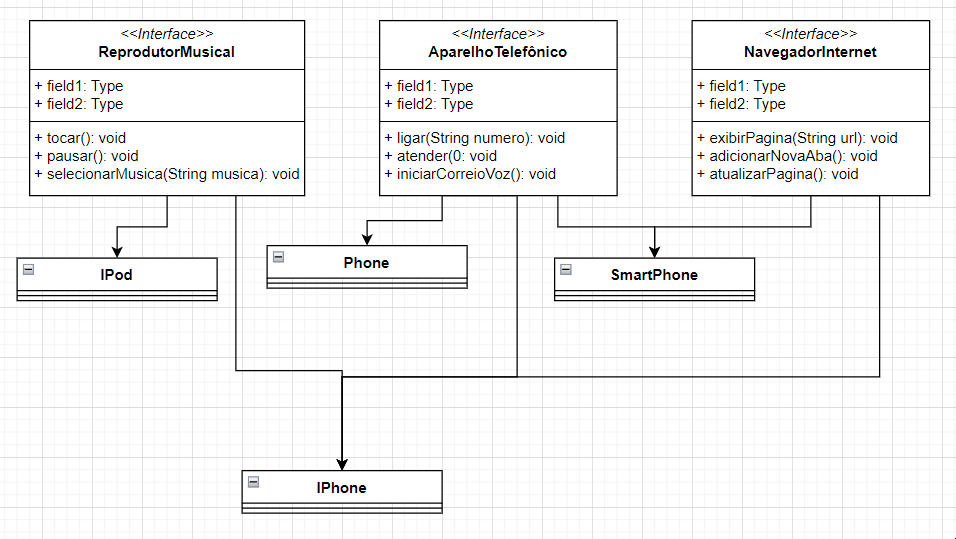
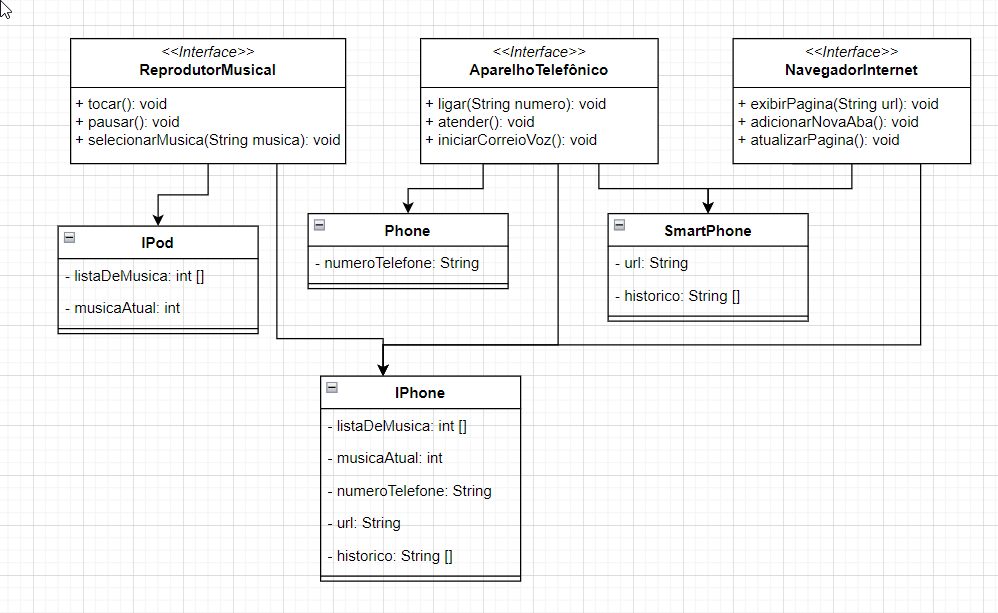
atualizando projeto e diagrama de classes

diff --git a/src/IPhone.java b/src/IPhone.java
@@ -1,0 +1,54 @@
+public class IPhone implements ReprodutorMusical, AparelhoTelefonico, NavegadorInternet {
+
+    private int[] listaDeMusica;
+    private int musicaAtual;
+    private String numeroTelefone;
+    private String url;
+    private String[] historico;
+
+    @Override
+    public void tocar() {
+        System.out.println("Tocando música pelo iPhone.");
+    }
+
+    @Override
+    public void pausar() {
+        System.out.println("Pausando a música do iPhone");
+    }
+
+    @Override
+    public void selecionarMusica(String musica) {
+        System.out.println("Selecionando a música do iPhone");
+    }
+
+    @Override
+    public void exibirPagina(String url) {
+        System.out.println("Abrindo a página "+url+" no iPhone.");
+    }
+
+    @Override
+    public void adicionarNovaAba() {
+        System.out.println("Adicionando uma nova aba no iPhone.");
+    }
+
+    @Override
+    public void atualizarPagina() {
+        System.out.println("Atualizando a página no iPhone.");
+    }
+
+    @Override
+    public void ligar(String numero) {
+        System.out.println("Fazendo uma ligação pelo iPhone para o número "+ numero);
+    }
+
+    @Override
+    public void atender() {
+        System.out.println("Aterndendo ligação no iPhone");
+    }
+
+    @Override
+    public void iniciarCorreioVoz() {
+        System.out.println("Iniciando correio de voz no iPhone");
+    }
+    
+}

diff --git a/src/SmartPhone.java b/src/SmartPhone.java
@@ -1,0 +1,38 @@
+public class SmartPhone implements AparelhoTelefonico, NavegadorInternet {
+
+    private String numeroTelefone;
+    private String url;
+    private String[] historico;
+
+    @Override
+    public void exibirPagina(String url) {
+        System.out.println("Abrindo a página "+url+" no SmartPhone.");
+    }
+
+    @Override
+    public void adicionarNovaAba() {
+        System.out.println("Adicionando uma nova aba no SmartPhone.");
+    }
+
+    @Override
+    public void atualizarPagina() {
+        System.out.println("Atualizando a página no SmartPhone.");
+    }
+
+    @Override
+    public void ligar(String numero) {
+        System.out.println("Fazendo uma ligação pelo SmartPhone para o número "+ numero);
+    }
+
+    @Override
+    public void atender() {
+        System.out.println("Aterndendo ligação no SmartPhone");
+    }
+
+    @Override
+    public void iniciarCorreioVoz() {
+        System.out.println("Iniciando correio de voz no SmartPhone");
+    }
+    
+    
+}

diff --git a/src/Usuario.java b/src/Usuario.java
@@ -1,5 +1,27 @@
 public class Usuario {
     public static void main(String[] args) throws Exception {
-        System.out.println("Hello, World!");
+
+        IPhone iPhone = new IPhone();
+
+        IPod iPod = new IPod();
+        Phone dumbPhone = new Phone();
+        SmartPhone smartPhone = new SmartPhone();
+
+        iPod.tocar();
+        iPhone.tocar();
+
+        System.out.println("-------------");
+
+        dumbPhone.atender();
+        smartPhone.atender();
+        iPhone.atender();
+        iPhone.ligar("269-6969");
+
+        System.out.println("-------------");
+
+        smartPhone.atualizarPagina();
+        iPhone.atualizarPagina();
+        iPhone.exibirPagina("web.dio.me");
+        
     }
 }

diff --git a/src/Phone.java b/src/Phone.java
@@ -1,0 +1,20 @@
+public class Phone implements AparelhoTelefonico {
+
+    private String numeroTelefone;
+
+    @Override
+    public void ligar(String numero) {
+        System.out.println("Fazendo uma ligação pelo Phone para o número "+ numero);
+    }
+
+    @Override
+    public void atender() {
+        System.out.println("Aterndendo ligação no Phone");
+    }
+
+    @Override
+    public void iniciarCorreioVoz() {
+        System.out.println("Iniciando correio de voz no Phone");
+    }
+    
+}

diff --git a/src/IPod.java b/src/IPod.java
@@ -1,0 +1,21 @@
+public class IPod implements ReprodutorMusical {
+
+    private int[] listaDeMusica;
+    private int musicaAtual;
+
+    @Override
+    public void tocar() {
+        System.out.println("Tocando música pelo iPod.");
+    }
+
+    @Override
+    public void pausar() {
+        System.out.println("Pausando a música do iPod");
+    }
+
+    @Override
+    public void selecionarMusica(String musica) {
+        System.out.println("Selecionando a música do iPod");
+    }
+    
+}

diff --git a/src/NavegadorInternet.java b/src/NavegadorInternet.java
@@ -1,0 +1,5 @@
+public interface NavegadorInternet {
+    public void exibirPagina(String url);
+    public void adicionarNovaAba();
+    public void atualizarPagina();
+}

diff --git a/src/AparelhoTelefonico.java b/src/AparelhoTelefonico.java
@@ -1,0 +1,5 @@
+public interface AparelhoTelefonico {
+    public void ligar(String numero);
+    public void atender();
+    public void iniciarCorreioVoz();
+}

diff --git a/src/ReprodutorMusical.java b/src/ReprodutorMusical.java
@@ -1,0 +1,5 @@
+public interface ReprodutorMusical {
+    public void tocar();
+    public void pausar();
+    public void selecionarMusica(String musica);
+}
